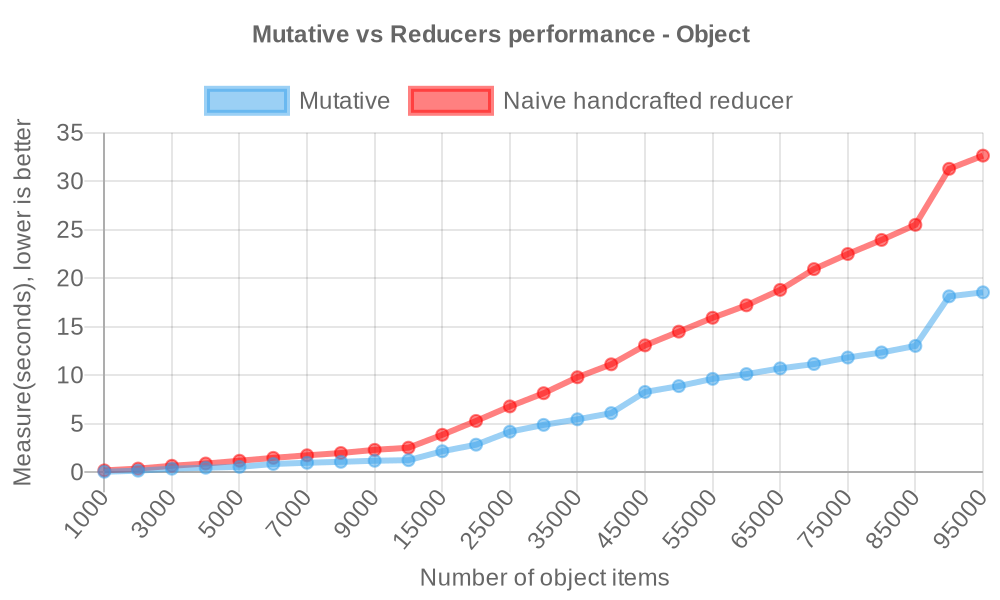
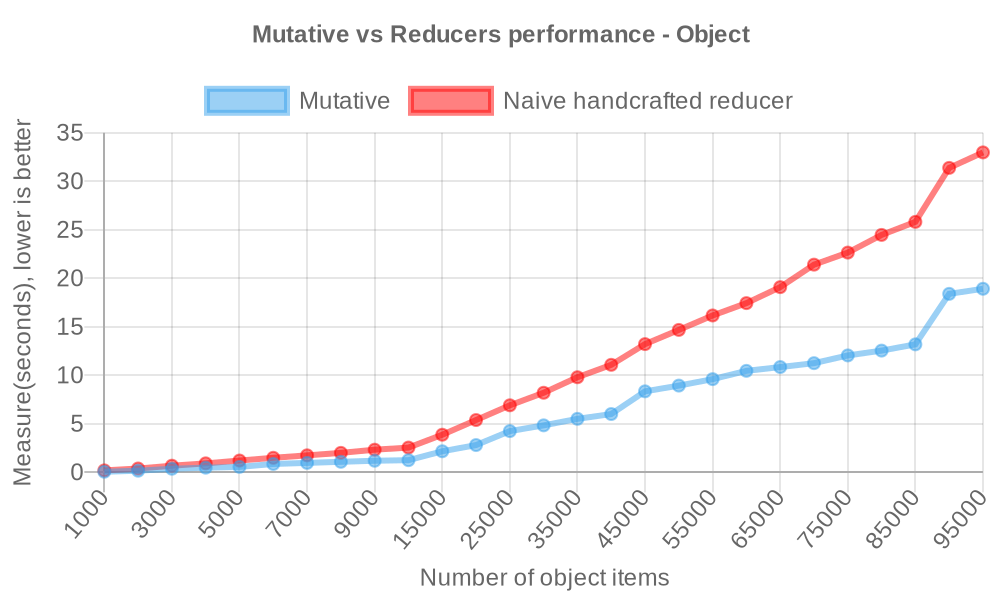
docs(benchmark): update docs about benchmark

diff --git a/README.md b/README.md
@@ -108,23 +108,23 @@ Mutative is up to 6x faster than naive handcrafted reducer for updating immutabl
 
 > Mutative passed all of Immer's test cases.
 
-Measure(ops/sec) to update 50K arrays and 1K objects, bigger is better([view source](https://github.com/unadlib/mutative/blob/main/test/performance/benchmark.ts)). [Mutative v1.0.4 vs Immer v10.0.4]
+Measure(ops/sec) to update 50K arrays and 1K objects, bigger is better([view source](https://github.com/unadlib/mutative/blob/main/test/performance/benchmark.ts)). [Mutative v1.0.5 vs Immer v10.0.4]
 
 ![Benchmark](benchmark.jpg)
 
 ```
-Naive handcrafted reducer - No Freeze x 4,450 ops/sec ±0.36% (96 runs sampled)
-Mutative - No Freeze x 6,137 ops/sec ±1.15% (89 runs sampled)
-Immer - No Freeze x 5.27 ops/sec ±0.65% (18 runs sampled)
+Naive handcrafted reducer - No Freeze x 4,442 ops/sec ±0.49% (94 runs sampled)
+Mutative - No Freeze x 6,101 ops/sec ±1.26% (88 runs sampled)
+Immer - No Freeze x 5.20 ops/sec ±0.68% (17 runs sampled)
 
-Mutative - Freeze x 960 ops/sec ±1.42% (95 runs sampled)
-Immer - Freeze x 378 ops/sec ±0.70% (93 runs sampled)
+Mutative - Freeze x 946 ops/sec ±1.36% (92 runs sampled)
+Immer - Freeze x 376 ops/sec ±1.10% (93 runs sampled)
 
-Mutative - Patches and No Freeze x 960 ops/sec ±1.32% (97 runs sampled)
-Immer - Patches and No Freeze x 5.27 ops/sec ±0.69% (18 runs sampled)
+Mutative - Patches and No Freeze x 963 ops/sec ±1.14% (96 runs sampled)
+Immer - Patches and No Freeze x 5.32 ops/sec ±0.21% (18 runs sampled)
 
-Mutative - Patches and Freeze x 493 ops/sec ±1.40% (94 runs sampled)
-Immer - Patches and Freeze x 275 ops/sec ±0.62% (89 runs sampled)
+Mutative - Patches and Freeze x 501 ops/sec ±1.24% (93 runs sampled)
+Immer - Patches and Freeze x 272 ops/sec ±0.61% (88 runs sampled)
 
 The fastest method is Mutative - No Freeze
 ```
@@ -138,6 +138,15 @@ Immer relies on auto-freeze to be enabled, if auto-freeze is disabled, Immer wil
 So if you are using Immer, you will have to enable auto-freeze for performance. Mutative is disabled auto-freeze by default. With the default configuration of both, we can see the 16x performance gap between Mutative (`6,058 ops/sec`) and Immer (`380 ops/sec`).
 
 Overall, Mutative has a huge performance lead over Immer in [more performance testing scenarios](https://github.com/unadlib/mutative/tree/main/test/performance). Run `yarn performance` to get all the performance results locally.
+
+<details>
+<summary><b>More Performance Testing Scenarios, Mutative is up to 2.5X-73.8X faster than Immer:  </b></summary>
+
+![Mutative vs Immer - All benchmark results by average multiplier](test/benchmark/results/all.jpg)
+
+> [view source](https://github.com/unadlib/mutative/blob/main/test/benchmark).
+
+</details>
 
 ## Features and Benefits
 

diff --git a/website/docs/extra-topics/comparison-with-immer.md b/website/docs/extra-topics/comparison-with-immer.md
@@ -25,23 +25,23 @@ Mutative has fewer bugs such as accidental draft escapes than Immer, [view detai
 
 > Mutative passed all of Immer's test cases.
 
-Measure(ops/sec) to update 50K arrays and 1K objects, bigger is better([view source](https://github.com/unadlib/mutative/blob/main/test/performance/benchmark.ts)). [Mutative v1.0.4 vs Immer v10.0.4]
+Measure(ops/sec) to update 50K arrays and 1K objects, bigger is better([view source](https://github.com/unadlib/mutative/blob/main/test/performance/benchmark.ts)). [Mutative v1.0.5 vs Immer v10.0.4]
 
 ![Benchmark](img/benchmark.jpg)
 
 ```
-Naive handcrafted reducer - No Freeze x 4,450 ops/sec ±0.36% (96 runs sampled)
-Mutative - No Freeze x 6,137 ops/sec ±1.15% (89 runs sampled)
-Immer - No Freeze x 5.27 ops/sec ±0.65% (18 runs sampled)
+Naive handcrafted reducer - No Freeze x 4,442 ops/sec ±0.49% (94 runs sampled)
+Mutative - No Freeze x 6,101 ops/sec ±1.26% (88 runs sampled)
+Immer - No Freeze x 5.20 ops/sec ±0.68% (17 runs sampled)
 
-Mutative - Freeze x 960 ops/sec ±1.42% (95 runs sampled)
-Immer - Freeze x 378 ops/sec ±0.70% (93 runs sampled)
+Mutative - Freeze x 946 ops/sec ±1.36% (92 runs sampled)
+Immer - Freeze x 376 ops/sec ±1.10% (93 runs sampled)
 
-Mutative - Patches and No Freeze x 960 ops/sec ±1.32% (97 runs sampled)
-Immer - Patches and No Freeze x 5.27 ops/sec ±0.69% (18 runs sampled)
+Mutative - Patches and No Freeze x 963 ops/sec ±1.14% (96 runs sampled)
+Immer - Patches and No Freeze x 5.32 ops/sec ±0.21% (18 runs sampled)
 
-Mutative - Patches and Freeze x 493 ops/sec ±1.40% (94 runs sampled)
-Immer - Patches and Freeze x 275 ops/sec ±0.62% (89 runs sampled)
+Mutative - Patches and Freeze x 501 ops/sec ±1.24% (93 runs sampled)
+Immer - Patches and Freeze x 272 ops/sec ±0.61% (88 runs sampled)
 
 The fastest method is Mutative - No Freeze
 ```

diff --git a/website/blog/releases/1.0/index.md b/website/blog/releases/1.0/index.md
@@ -81,23 +81,23 @@ const state = create(baseState, (draft) => {
 
 > Mutative passed all of Immer's test cases.
 
-Measure(ops/sec) to update 50K arrays and 1K objects, bigger is better([view source](https://github.com/unadlib/mutative/blob/main/test/performance/benchmark.ts)). [Mutative v1.0.4 vs Immer v10.0.4]
+Measure(ops/sec) to update 50K arrays and 1K objects, bigger is better([view source](https://github.com/unadlib/mutative/blob/main/test/performance/benchmark.ts)). [Mutative v1.0.5 vs Immer v10.0.4]
 
 ![Benchmark](img/benchmark.jpg)
 
 ```
-Naive handcrafted reducer - No Freeze x 4,450 ops/sec ±0.36% (96 runs sampled)
-Mutative - No Freeze x 6,137 ops/sec ±1.15% (89 runs sampled)
-Immer - No Freeze x 5.27 ops/sec ±0.65% (18 runs sampled)
+Naive handcrafted reducer - No Freeze x 4,442 ops/sec ±0.49% (94 runs sampled)
+Mutative - No Freeze x 6,101 ops/sec ±1.26% (88 runs sampled)
+Immer - No Freeze x 5.20 ops/sec ±0.68% (17 runs sampled)
 
-Mutative - Freeze x 960 ops/sec ±1.42% (95 runs sampled)
-Immer - Freeze x 378 ops/sec ±0.70% (93 runs sampled)
+Mutative - Freeze x 946 ops/sec ±1.36% (92 runs sampled)
+Immer - Freeze x 376 ops/sec ±1.10% (93 runs sampled)
 
-Mutative - Patches and No Freeze x 960 ops/sec ±1.32% (97 runs sampled)
-Immer - Patches and No Freeze x 5.27 ops/sec ±0.69% (18 runs sampled)
+Mutative - Patches and No Freeze x 963 ops/sec ±1.14% (96 runs sampled)
+Immer - Patches and No Freeze x 5.32 ops/sec ±0.21% (18 runs sampled)
 
-Mutative - Patches and Freeze x 493 ops/sec ±1.40% (94 runs sampled)
-Immer - Patches and Freeze x 275 ops/sec ±0.62% (89 runs sampled)
+Mutative - Patches and Freeze x 501 ops/sec ±1.24% (93 runs sampled)
+Immer - Patches and Freeze x 272 ops/sec ±0.61% (88 runs sampled)
 
 The fastest method is Mutative - No Freeze
 ```

diff --git a/website/docs/getting-started/performance.md b/website/docs/getting-started/performance.md
@@ -69,23 +69,23 @@ const state = create(baseState, (draft) => {
 
 > Mutative passed all of Immer's test cases.
 
-Measure(ops/sec) to update 50K arrays and 1K objects, bigger is better([view source](https://github.com/unadlib/mutative/blob/main/test/performance/benchmark.ts)). [Mutative v1.0.4 vs Immer v10.0.4]
+Measure(ops/sec) to update 50K arrays and 1K objects, bigger is better([view source](https://github.com/unadlib/mutative/blob/main/test/performance/benchmark.ts)). [Mutative v1.0.5 vs Immer v10.0.4]
 
 ![Benchmark](img/benchmark.jpg)
 
 ```
-Naive handcrafted reducer - No Freeze x 4,450 ops/sec ±0.36% (96 runs sampled)
-Mutative - No Freeze x 6,137 ops/sec ±1.15% (89 runs sampled)
-Immer - No Freeze x 5.27 ops/sec ±0.65% (18 runs sampled)
+Naive handcrafted reducer - No Freeze x 4,442 ops/sec ±0.49% (94 runs sampled)
+Mutative - No Freeze x 6,101 ops/sec ±1.26% (88 runs sampled)
+Immer - No Freeze x 5.20 ops/sec ±0.68% (17 runs sampled)
 
-Mutative - Freeze x 960 ops/sec ±1.42% (95 runs sampled)
-Immer - Freeze x 378 ops/sec ±0.70% (93 runs sampled)
+Mutative - Freeze x 946 ops/sec ±1.36% (92 runs sampled)
+Immer - Freeze x 376 ops/sec ±1.10% (93 runs sampled)
 
-Mutative - Patches and No Freeze x 960 ops/sec ±1.32% (97 runs sampled)
-Immer - Patches and No Freeze x 5.27 ops/sec ±0.69% (18 runs sampled)
+Mutative - Patches and No Freeze x 963 ops/sec ±1.14% (96 runs sampled)
+Immer - Patches and No Freeze x 5.32 ops/sec ±0.21% (18 runs sampled)
 
-Mutative - Patches and Freeze x 493 ops/sec ±1.40% (94 runs sampled)
-Immer - Patches and Freeze x 275 ops/sec ±0.62% (89 runs sampled)
+Mutative - Patches and Freeze x 501 ops/sec ±1.24% (93 runs sampled)
+Immer - Patches and Freeze x 272 ops/sec ±0.61% (88 runs sampled)
 
 The fastest method is Mutative - No Freeze
 ```
